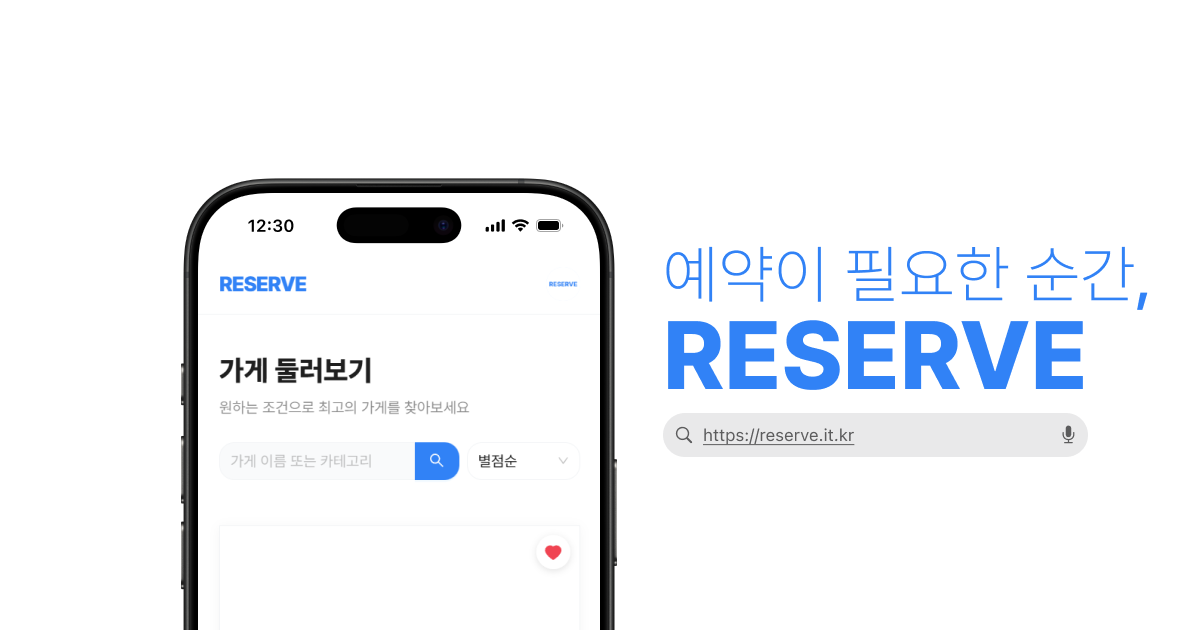
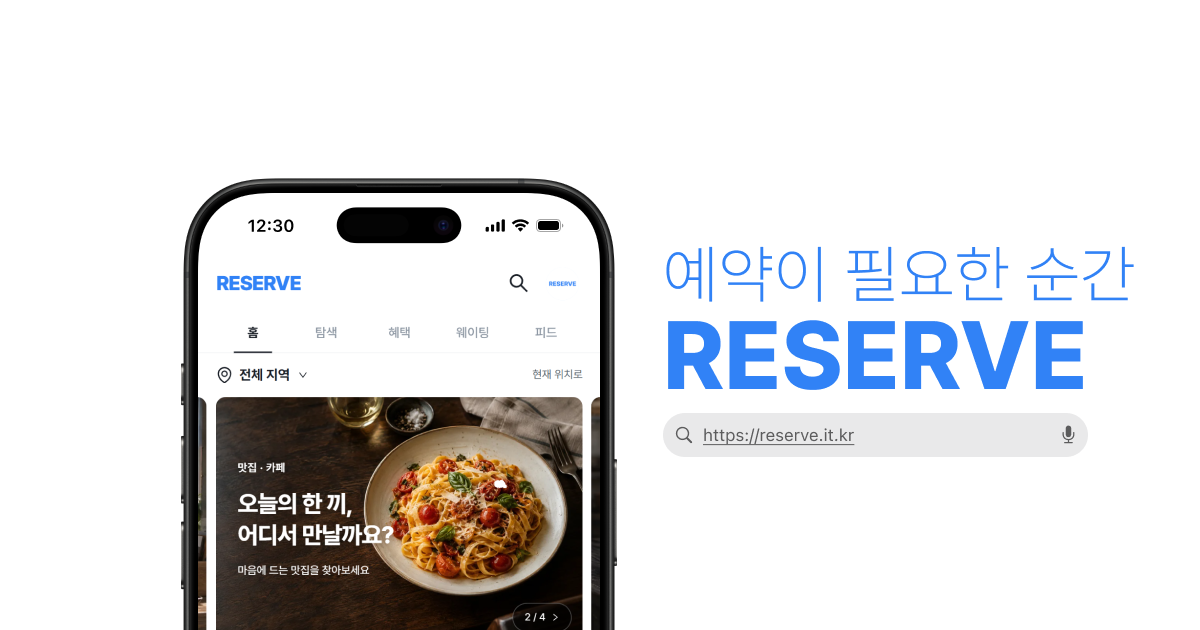
chore: replace og image and version its url
Append ?v=20260928 to og:image, og:image:secure_url and twitter:image so Kakao, Facebook and X fetch the new image instead of their cached copy.

Claude-Session: https://claude.ai/code/session_01NESGGY9hpA9k4TvMSnY2Ud

diff --git a/frontend/index.html b/frontend/index.html
@@ -17,12 +17,15 @@
     <link rel="canonical" href="https://reserve.it.kr" />
 
     <!-- ─── Open Graph (카카오, 슬랙, 페이스북 공유 미리보기) ── -->
+    <!-- og-image 를 바꾸면 아래 세 곳(og:image·og:image:secure_url·twitter:image)의 ?v= 를 함께 올린다.
+         카카오·페이스북·X·슬랙은 이미지 주소 단위로 미리보기를 오래 기억해서, 파일만 바꾸면 옛 그림이 계속 뜬다.
+         파일 이름은 그대로 둔다 — 메신저 첫 화면 커버(messengerImages.js)도 /og-image.png 를 쓴다. -->
     <meta property="og:type" content="website" />
     <meta property="og:site_name" content="RESERVE" />
     <meta property="og:title" content="RESERVE | 예약이 필요한 순간" />
     <meta property="og:description" content="예약이 필요한 순간, 원하는 가게를 찾고 가장 빠르게 예약하세요." />
-    <meta property="og:image" content="https://reserve.it.kr/og-image.png" />
-    <meta property="og:image:secure_url" content="https://reserve.it.kr/og-image.png" />
+    <meta property="og:image" content="https://reserve.it.kr/og-image.png?v=20260928" />
+    <meta property="og:image:secure_url" content="https://reserve.it.kr/og-image.png?v=20260928" />
     <meta property="og:image:type" content="image/png" />
     <meta property="og:image:width" content="1200" />
     <meta property="og:image:height" content="630" />
@@ -34,7 +37,7 @@
     <meta name="twitter:card" content="summary_large_image" />
     <meta name="twitter:title" content="RESERVE | 예약이 필요한 순간" />
     <meta name="twitter:description" content="예약이 필요한 순간, 원하는 가게를 찾고 가장 빠르게 예약하세요." />
-    <meta name="twitter:image" content="https://reserve.it.kr/og-image.png" />
+    <meta name="twitter:image" content="https://reserve.it.kr/og-image.png?v=20260928" />
 
     <!-- ─── 아이콘 ────────────────────────────────────────── -->
     <!-- SVG는 지원 브라우저에서 우선 사용, PNG는 미지원 브라우저(iOS Safari 등) 폴백 -->
